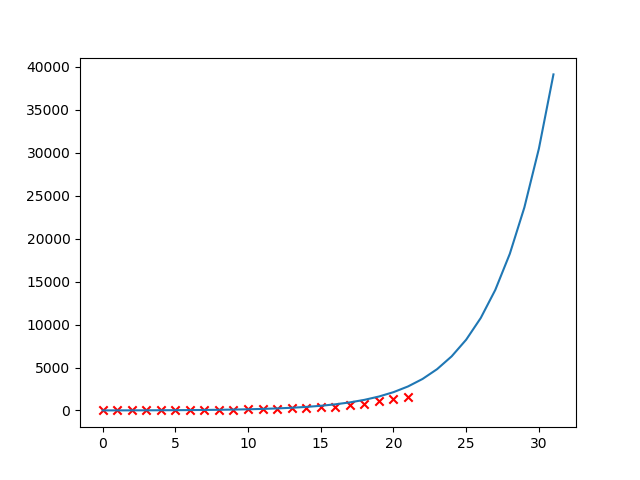
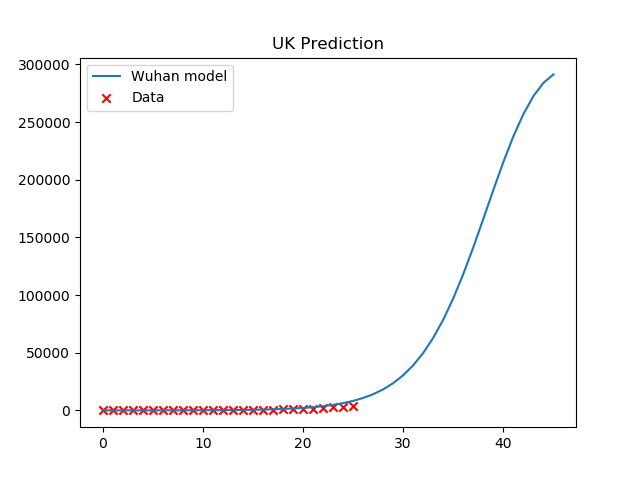
20 Mar update

diff --git a/uk_prediction.py b/uk_prediction.py
@@ -32,14 +32,14 @@ def SIR(t, beta, gamma):
 
 
 day = np.arange(0, len(data), 1)
-days = np.arange(0, len(data)+10, 1)
+days = np.arange(0, len(data)+20,1)
 
 beta, gamma = [0.33838125, 0.06476182]
 
 plt.figure(0)
 plt.scatter(day, data,marker="x",c="r",label="Data")
 plt.plot(days, SIR(days, beta, gamma),label="Wuhan model")
-plt.savefig("UK_prediction")
 plt.legend()
 plt.title("UK Prediction")
+plt.savefig("UK_prediction")
 plt.show()
